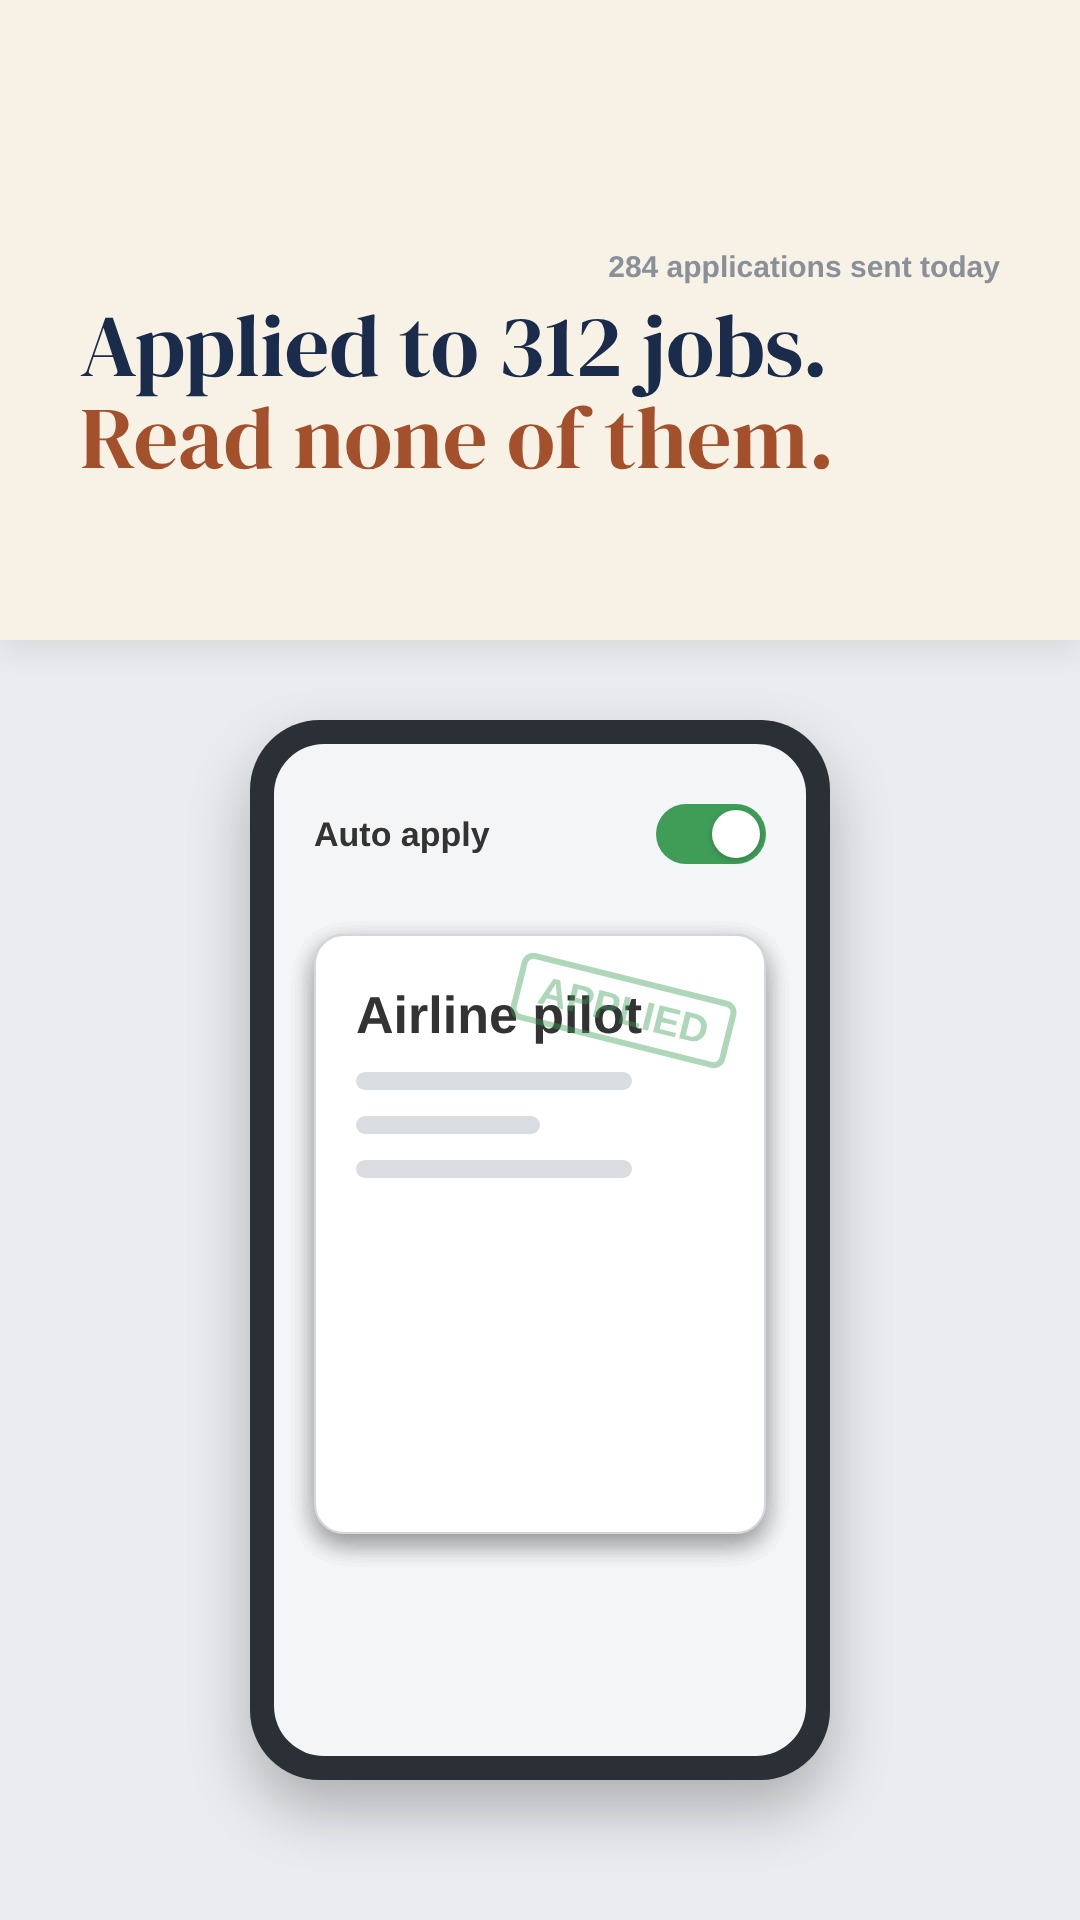
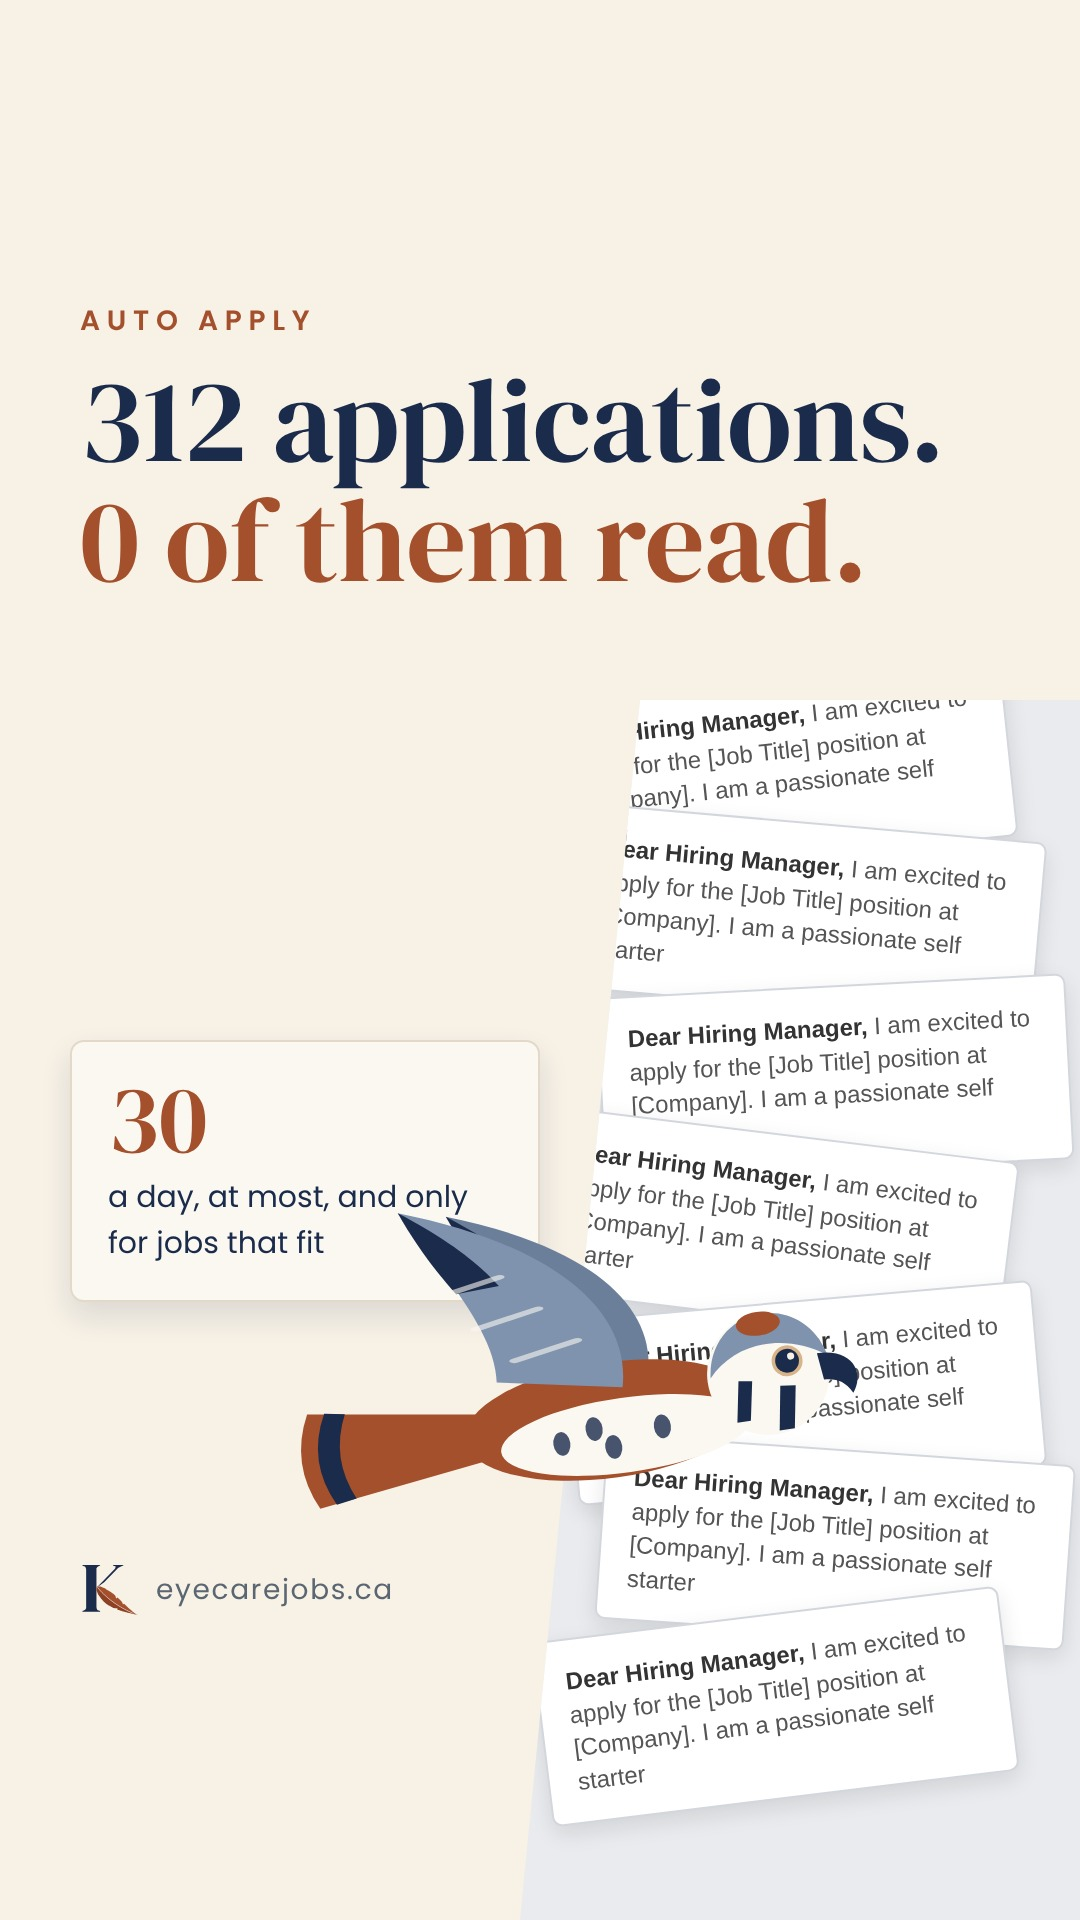
Instagram: designed covers for the 3 cut the noise reels
Claude-Session: https://claude.ai/code/session_01K4dgNT44d6ujsE4qjnTdTu

Changed region(s): [[0.0306, 0.125, 0.9778, 0.9688], [0.0611, 0.8125, 0.1222, 0.8438]]

diff --git a/design/social-and-merch/instagram-guides/autoapply-reel-cover.html b/design/social-and-merch/instagram-guides/autoapply-reel-cover.html
@@ -1,0 +1,45 @@
+<!doctype html><html lang="en"><head><meta charset="utf-8"><title>Cover</title><style>
+@font-face{font-family:'DM Serif Display';src:url(file:///home/user/Kestrel/node_modules/@fontsource/dm-serif-display/files/dm-serif-display-latin-400-normal.woff2)}
+@font-face{font-family:Poppins;font-weight:400;src:url(file:///home/user/Kestrel/node_modules/@fontsource/poppins/files/poppins-latin-400-normal.woff2)}
+@font-face{font-family:Poppins;font-weight:600;src:url(file:///home/user/Kestrel/node_modules/@fontsource/poppins/files/poppins-latin-600-normal.woff2)}
+body{margin:0}p{margin:0}
+#f{width:1080px;height:1920px;position:relative;overflow:hidden;background:#F7F1E6}
+#noise{position:absolute;inset:0;background:#E9EBEE;clip-path:polygon(640px 700px,1080px 700px,1080px 1920px,520px 1920px);font-family:Arial,Helvetica,sans-serif}
+.stack{position:absolute;left:560px;top:700px;width:560px}
+.g{width:470px;box-sizing:border-box;padding:24px 28px;background:#fff;border:2px solid #D3D7DD;border-radius:10px;box-shadow:0 8px 22px rgba(0,0,0,.10);color:#333;margin:-30px 0 0 0}
+.gt{font-weight:700;font-size:30px}.gb{height:14px;background:#D9DDE2;border-radius:7px;margin-top:14px;width:70%}.gb.s{width:45%}
+.gp{font-size:24px;color:#8A9099;margin-top:14px;line-height:1.4}
+.g.a{display:flex;gap:18px;align-items:center}.av{width:60px;height:60px;border-radius:50%;background:#C9CED5;flex:none}
+.who{position:absolute;left:80px;top:300px;font-family:Poppins;font-weight:600;font-size:28px;letter-spacing:0.24em;color:#A4502C}
+.head{position:absolute;left:80px;right:60px;top:360px;font-family:'DM Serif Display';font-size:118px;line-height:1.02;color:#1B2B4B}
+.kc{position:absolute;left:70px;top:1040px;width:470px;box-sizing:border-box;padding:34px 36px;border-radius:14px;background:#FBF8F2;border:2px solid #E3D9C8;box-shadow:0 14px 30px rgba(27,43,75,.12);font-family:Poppins}
+.kt{font-family:'DM Serif Display';font-size:50px;line-height:1.1;color:#1B2B4B}.km{font-size:26px;color:#5A6672;margin-top:6px}
+.cap{display:inline-block;margin-top:20px;padding:10px 22px;border-radius:999px;font-size:26px;font-weight:600}
+.cap.pay{background:#1B2B4B;color:#F7F1E6}.cap.fit{background:#A4502C;color:#F7F1E6}
+.foot{position:absolute;left:80px;top:1560px;display:flex;align-items:center;gap:16px}
+</style></head><body><div id="f">
+<div id="noise"><div class="stack"><div style="transform:translateX(-20px) rotate(-6deg)"><div class="g"><p class="gp" style="margin:0;color:#555"><b style="color:#333">Dear Hiring Manager,</b> I am excited to apply for the [Job Title] position at [Company]. I am a passionate self starter</p></div></div><div style="transform:translateX(10px) rotate(5deg)"><div class="g"><p class="gp" style="margin:0;color:#555"><b style="color:#333">Dear Hiring Manager,</b> I am excited to apply for the [Job Title] position at [Company]. I am a passionate self starter</p></div></div><div style="transform:translateX(40px) rotate(-3deg)"><div class="g"><p class="gp" style="margin:0;color:#555"><b style="color:#333">Dear Hiring Manager,</b> I am excited to apply for the [Job Title] position at [Company]. I am a passionate self starter</p></div></div><div style="transform:translateX(-20px) rotate(7deg)"><div class="g"><p class="gp" style="margin:0;color:#555"><b style="color:#333">Dear Hiring Manager,</b> I am excited to apply for the [Job Title] position at [Company]. I am a passionate self starter</p></div></div><div style="transform:translateX(10px) rotate(-5deg)"><div class="g"><p class="gp" style="margin:0;color:#555"><b style="color:#333">Dear Hiring Manager,</b> I am excited to apply for the [Job Title] position at [Company]. I am a passionate self starter</p></div></div><div style="transform:translateX(40px) rotate(4deg)"><div class="g"><p class="gp" style="margin:0;color:#555"><b style="color:#333">Dear Hiring Manager,</b> I am excited to apply for the [Job Title] position at [Company]. I am a passionate self starter</p></div></div><div style="transform:translateX(-20px) rotate(-7deg)"><div class="g"><p class="gp" style="margin:0;color:#555"><b style="color:#333">Dear Hiring Manager,</b> I am excited to apply for the [Job Title] position at [Company]. I am a passionate self starter</p></div></div></div></div>
+<p class="who">AUTO APPLY</p>
+<p class="head">312 applications.<br><span style="color:#A4502C">0 of them read.</span></p>
+<div class="kc"><p class="kt" style="font-size:96px;color:#A4502C;line-height:.9">30</p><p class="km" style="font-size:30px;color:#1B2B4B;margin-top:12px">a day, at most, and only for jobs that fit</p></div>
+<svg style="position:absolute;left:0;top:0;overflow:visible" width="1080" height="1920"><g transform="translate(610 1420) scale(1.7) rotate(-8)"><g id="fly">
+  <g id="farwing"><path d="M10 -18 C -20 -90, -80 -150, -160 -172 C -110 -112, -66 -62, -44 -16 Z" fill="#6B7F9B"/><path d="M-160 -172 C -128 -150, -104 -128, -86 -108 L -100 -98 C -118 -118, -138 -142, -160 -172 Z" fill="#1B2B4B"/></g>
+  <path id="tail" d="M-62 -12 L-176 -28 Q-190 0 -176 28 L-62 12 Z" fill="#A4502C"/>
+  <path d="M-154 -25 Q-166 0 -154 25 L-166 27 Q-180 0 -166 -27 Z" fill="#1B2B4B"/>
+  <ellipse cx="0" cy="0" rx="86" ry="34" fill="#A4502C"/>
+  <ellipse cx="8" cy="10" rx="74" ry="22" fill="#FBF8F2"/>
+  <ellipse cx="-30" cy="10" rx="5" ry="7" fill="#1B2B4B" opacity=".8"/><ellipse cx="0" cy="16" rx="5" ry="7" fill="#1B2B4B" opacity=".8"/><ellipse cx="30" cy="8" rx="5" ry="7" fill="#1B2B4B" opacity=".8"/><ellipse cx="-10" cy="4" rx="5" ry="7" fill="#1B2B4B" opacity=".8"/>
+  
+  <circle cx="96" cy="-14" r="36" fill="#FBF8F2"/>
+  <path d="M62 -16 C 66 -58, 122 -62, 132 -20 C 110 -36, 80 -36, 62 -16 Z" fill="#7F93AE"/>
+  <ellipse cx="94" cy="-44" rx="13" ry="7" fill="#A4502C"/>
+  <path d="M102 -6 l-4 26 h9 l4 -25 Z" fill="#1B2B4B"/>
+  <path d="M78 -12 l-4 24 h8 l4 -23 Z" fill="#1B2B4B"/>
+  <path d="M126 -22 C 148 -22, 152 -6, 144 4 C 140 -4, 134 -6, 128 -6 Z" fill="#1B2B4B"/>
+  <circle cx="108" cy="-20" r="9.1" fill="#D8B48A"/><circle cx="108" cy="-20" r="7" fill="#1B2B4B"/><circle cx="110.45" cy="-22.45" r="2.1" fill="#F7F1E6"/>
+  <g id="nearwing"><path d="M10 -18 C -20 -90, -80 -150, -160 -172 C -110 -112, -66 -62, -44 -16 Z" fill="#7F93AE"/><path d="M-160 -172 C -128 -150, -104 -128, -86 -108 L -100 -98 C -118 -118, -138 -142, -160 -172 Z" fill="#1B2B4B"/>
+  <path d="M-30 -60 l-16 22" stroke="#FBF8F2" stroke-width="5" stroke-linecap="round" opacity=".6"/><path d="M-60 -88 l-16 22" stroke="#FBF8F2" stroke-width="5" stroke-linecap="round" opacity=".6"/><path d="M-90 -116 l-16 22" stroke="#FBF8F2" stroke-width="5" stroke-linecap="round" opacity=".6"/></g>
+</g></g></svg>
+<div class="foot"><img src="file:///home/user/Kestrel/public/brand/kestrel-k-mark.svg" alt="" style="width:60px;height:60px"><p style="font-family:Poppins;font-size:28px;letter-spacing:0.06em;color:#5A6672">eyecarejobs.ca</p></div>
+<script>document.getElementById("nearwing").setAttribute("transform", "translate(10 -18) scale(1.5 0.5549999999999999) rotate(28) translate(-10 18)"); document.getElementById("farwing").setAttribute("transform", "translate(26 -24) scale(1.35 0.49949999999999994) rotate(28) translate(-10 18)");</script>
+</div></body></html>

diff --git a/design/social-and-merch/instagram-guides/noise-reel-clinics-cover.html b/design/social-and-merch/instagram-guides/noise-reel-clinics-cover.html
@@ -1,0 +1,45 @@
+<!doctype html><html lang="en"><head><meta charset="utf-8"><title>Cover</title><style>
+@font-face{font-family:'DM Serif Display';src:url(file:///home/user/Kestrel/node_modules/@fontsource/dm-serif-display/files/dm-serif-display-latin-400-normal.woff2)}
+@font-face{font-family:Poppins;font-weight:400;src:url(file:///home/user/Kestrel/node_modules/@fontsource/poppins/files/poppins-latin-400-normal.woff2)}
+@font-face{font-family:Poppins;font-weight:600;src:url(file:///home/user/Kestrel/node_modules/@fontsource/poppins/files/poppins-latin-600-normal.woff2)}
+body{margin:0}p{margin:0}
+#f{width:1080px;height:1920px;position:relative;overflow:hidden;background:#F7F1E6}
+#noise{position:absolute;inset:0;background:#E9EBEE;clip-path:polygon(640px 700px,1080px 700px,1080px 1920px,520px 1920px);font-family:Arial,Helvetica,sans-serif}
+.stack{position:absolute;left:560px;top:700px;width:560px}
+.g{width:470px;box-sizing:border-box;padding:24px 28px;background:#fff;border:2px solid #D3D7DD;border-radius:10px;box-shadow:0 8px 22px rgba(0,0,0,.10);color:#333;margin:-30px 0 0 0}
+.gt{font-weight:700;font-size:30px}.gb{height:14px;background:#D9DDE2;border-radius:7px;margin-top:14px;width:70%}.gb.s{width:45%}
+.gp{font-size:24px;color:#8A9099;margin-top:14px;line-height:1.4}
+.g.a{display:flex;gap:18px;align-items:center}.av{width:60px;height:60px;border-radius:50%;background:#C9CED5;flex:none}
+.who{position:absolute;left:80px;top:300px;font-family:Poppins;font-weight:600;font-size:28px;letter-spacing:0.24em;color:#A4502C}
+.head{position:absolute;left:80px;right:60px;top:360px;font-family:'DM Serif Display';font-size:118px;line-height:1.02;color:#1B2B4B}
+.kc{position:absolute;left:70px;top:1040px;width:470px;box-sizing:border-box;padding:34px 36px;border-radius:14px;background:#FBF8F2;border:2px solid #E3D9C8;box-shadow:0 14px 30px rgba(27,43,75,.12);font-family:Poppins}
+.kt{font-family:'DM Serif Display';font-size:50px;line-height:1.1;color:#1B2B4B}.km{font-size:26px;color:#5A6672;margin-top:6px}
+.cap{display:inline-block;margin-top:20px;padding:10px 22px;border-radius:999px;font-size:26px;font-weight:600}
+.cap.pay{background:#1B2B4B;color:#F7F1E6}.cap.fit{background:#A4502C;color:#F7F1E6}
+.foot{position:absolute;left:80px;top:1560px;display:flex;align-items:center;gap:16px}
+</style></head><body><div id="f">
+<div id="noise"><div class="stack"><div style="transform:translateX(-20px) rotate(-6deg)"><div class="g a"><div class="av"></div><div style="flex:1"><div class="gb"></div><p class="gp">Applied for: dental assistant</p></div></div></div><div style="transform:translateX(10px) rotate(5deg)"><div class="g a"><div class="av"></div><div style="flex:1"><div class="gb"></div><p class="gp">Hi, is this still available?</p></div></div></div><div style="transform:translateX(40px) rotate(-3deg)"><div class="g a"><div class="av"></div><div style="flex:1"><div class="gb"></div><p class="gp">Experience: barista</p></div></div></div><div style="transform:translateX(-20px) rotate(7deg)"><div class="g a"><div class="av"></div><div style="flex:1"><div class="gb"></div><p class="gp">Cover letter: for a different job</p></div></div></div><div style="transform:translateX(10px) rotate(-5deg)"><div class="g a"><div class="av"></div><div style="flex:1"><div class="gb"></div><p class="gp">Applied for: forklift operator</p></div></div></div><div style="transform:translateX(40px) rotate(4deg)"><div class="g a"><div class="av"></div><div style="flex:1"><div class="gb"></div><p class="gp">Didn't answer your questions</p></div></div></div><div style="transform:translateX(-20px) rotate(-7deg)"><div class="g a"><div class="av"></div><div style="flex:1"><div class="gb"></div><p class="gp">Experience: none listed</p></div></div></div></div></div>
+<p class="who">FOR CLINICS</p>
+<p class="head">247 applicants.<br><span style="color:#A4502C">Who read the ad?</span></p>
+<div class="kc"><p class="kt">Licensed optician</p><p class="km">Calgary · 6 years in practice</p><span class="cap fit">Fits the role</span></div>
+<svg style="position:absolute;left:0;top:0;overflow:visible" width="1080" height="1920"><g transform="translate(610 1420) scale(1.7) rotate(-8)"><g id="fly">
+  <g id="farwing"><path d="M10 -18 C -20 -90, -80 -150, -160 -172 C -110 -112, -66 -62, -44 -16 Z" fill="#6B7F9B"/><path d="M-160 -172 C -128 -150, -104 -128, -86 -108 L -100 -98 C -118 -118, -138 -142, -160 -172 Z" fill="#1B2B4B"/></g>
+  <path id="tail" d="M-62 -12 L-176 -28 Q-190 0 -176 28 L-62 12 Z" fill="#A4502C"/>
+  <path d="M-154 -25 Q-166 0 -154 25 L-166 27 Q-180 0 -166 -27 Z" fill="#1B2B4B"/>
+  <ellipse cx="0" cy="0" rx="86" ry="34" fill="#A4502C"/>
+  <ellipse cx="8" cy="10" rx="74" ry="22" fill="#FBF8F2"/>
+  <ellipse cx="-30" cy="10" rx="5" ry="7" fill="#1B2B4B" opacity=".8"/><ellipse cx="0" cy="16" rx="5" ry="7" fill="#1B2B4B" opacity=".8"/><ellipse cx="30" cy="8" rx="5" ry="7" fill="#1B2B4B" opacity=".8"/><ellipse cx="-10" cy="4" rx="5" ry="7" fill="#1B2B4B" opacity=".8"/>
+  
+  <circle cx="96" cy="-14" r="36" fill="#FBF8F2"/>
+  <path d="M62 -16 C 66 -58, 122 -62, 132 -20 C 110 -36, 80 -36, 62 -16 Z" fill="#7F93AE"/>
+  <ellipse cx="94" cy="-44" rx="13" ry="7" fill="#A4502C"/>
+  <path d="M102 -6 l-4 26 h9 l4 -25 Z" fill="#1B2B4B"/>
+  <path d="M78 -12 l-4 24 h8 l4 -23 Z" fill="#1B2B4B"/>
+  <path d="M126 -22 C 148 -22, 152 -6, 144 4 C 140 -4, 134 -6, 128 -6 Z" fill="#1B2B4B"/>
+  <circle cx="108" cy="-20" r="9.1" fill="#D8B48A"/><circle cx="108" cy="-20" r="7" fill="#1B2B4B"/><circle cx="110.45" cy="-22.45" r="2.1" fill="#F7F1E6"/>
+  <g id="nearwing"><path d="M10 -18 C -20 -90, -80 -150, -160 -172 C -110 -112, -66 -62, -44 -16 Z" fill="#7F93AE"/><path d="M-160 -172 C -128 -150, -104 -128, -86 -108 L -100 -98 C -118 -118, -138 -142, -160 -172 Z" fill="#1B2B4B"/>
+  <path d="M-30 -60 l-16 22" stroke="#FBF8F2" stroke-width="5" stroke-linecap="round" opacity=".6"/><path d="M-60 -88 l-16 22" stroke="#FBF8F2" stroke-width="5" stroke-linecap="round" opacity=".6"/><path d="M-90 -116 l-16 22" stroke="#FBF8F2" stroke-width="5" stroke-linecap="round" opacity=".6"/></g>
+</g></g></svg>
+<div class="foot"><img src="file:///home/user/Kestrel/public/brand/kestrel-k-mark.svg" alt="" style="width:60px;height:60px"><p style="font-family:Poppins;font-size:28px;letter-spacing:0.06em;color:#5A6672">eyecarejobs.ca</p></div>
+<script>document.getElementById("nearwing").setAttribute("transform", "translate(10 -18) scale(1.5 0.5549999999999999) rotate(28) translate(-10 18)"); document.getElementById("farwing").setAttribute("transform", "translate(26 -24) scale(1.35 0.49949999999999994) rotate(28) translate(-10 18)");</script>
+</div></body></html>

diff --git a/design/social-and-merch/instagram-guides/noise-reel-candidates-cover.html b/design/social-and-merch/instagram-guides/noise-reel-candidates-cover.html
@@ -1,0 +1,45 @@
+<!doctype html><html lang="en"><head><meta charset="utf-8"><title>Cover</title><style>
+@font-face{font-family:'DM Serif Display';src:url(file:///home/user/Kestrel/node_modules/@fontsource/dm-serif-display/files/dm-serif-display-latin-400-normal.woff2)}
+@font-face{font-family:Poppins;font-weight:400;src:url(file:///home/user/Kestrel/node_modules/@fontsource/poppins/files/poppins-latin-400-normal.woff2)}
+@font-face{font-family:Poppins;font-weight:600;src:url(file:///home/user/Kestrel/node_modules/@fontsource/poppins/files/poppins-latin-600-normal.woff2)}
+body{margin:0}p{margin:0}
+#f{width:1080px;height:1920px;position:relative;overflow:hidden;background:#F7F1E6}
+#noise{position:absolute;inset:0;background:#E9EBEE;clip-path:polygon(640px 700px,1080px 700px,1080px 1920px,520px 1920px);font-family:Arial,Helvetica,sans-serif}
+.stack{position:absolute;left:560px;top:700px;width:560px}
+.g{width:470px;box-sizing:border-box;padding:24px 28px;background:#fff;border:2px solid #D3D7DD;border-radius:10px;box-shadow:0 8px 22px rgba(0,0,0,.10);color:#333;margin:-30px 0 0 0}
+.gt{font-weight:700;font-size:30px}.gb{height:14px;background:#D9DDE2;border-radius:7px;margin-top:14px;width:70%}.gb.s{width:45%}
+.gp{font-size:24px;color:#8A9099;margin-top:14px;line-height:1.4}
+.g.a{display:flex;gap:18px;align-items:center}.av{width:60px;height:60px;border-radius:50%;background:#C9CED5;flex:none}
+.who{position:absolute;left:80px;top:300px;font-family:Poppins;font-weight:600;font-size:28px;letter-spacing:0.24em;color:#A4502C}
+.head{position:absolute;left:80px;right:60px;top:360px;font-family:'DM Serif Display';font-size:118px;line-height:1.02;color:#1B2B4B}
+.kc{position:absolute;left:70px;top:1040px;width:470px;box-sizing:border-box;padding:34px 36px;border-radius:14px;background:#FBF8F2;border:2px solid #E3D9C8;box-shadow:0 14px 30px rgba(27,43,75,.12);font-family:Poppins}
+.kt{font-family:'DM Serif Display';font-size:50px;line-height:1.1;color:#1B2B4B}.km{font-size:26px;color:#5A6672;margin-top:6px}
+.cap{display:inline-block;margin-top:20px;padding:10px 22px;border-radius:999px;font-size:26px;font-weight:600}
+.cap.pay{background:#1B2B4B;color:#F7F1E6}.cap.fit{background:#A4502C;color:#F7F1E6}
+.foot{position:absolute;left:80px;top:1560px;display:flex;align-items:center;gap:16px}
+</style></head><body><div id="f">
+<div id="noise"><div class="stack"><div style="transform:translateX(-20px) rotate(-6deg)"><div class="g"><p class="gt">Warehouse associate</p><div class="gb"></div><div class="gb s"></div><p class="gp">Pay: competitive</p></div></div><div style="transform:translateX(10px) rotate(5deg)"><div class="g"><p class="gt">Rockstar wanted!</p><div class="gb"></div><div class="gb s"></div><p class="gp">Salary: not stated</p></div></div><div style="transform:translateX(40px) rotate(-3deg)"><div class="g"><p class="gt">Sales rep, commission only</p><div class="gb"></div><div class="gb s"></div><p class="gp">Pay: DOE</p></div></div><div style="transform:translateX(-20px) rotate(7deg)"><div class="g"><p class="gt">Optical, 2 hours away</p><div class="gb"></div><div class="gb s"></div><p class="gp">Salary: negotiable</p></div></div><div style="transform:translateX(10px) rotate(-5deg)"><div class="g"><p class="gt">Team member</p><div class="gb"></div><div class="gb s"></div><p class="gp">Pay: competitive</p></div></div><div style="transform:translateX(40px) rotate(4deg)"><div class="g"><p class="gt">Delivery driver</p><div class="gb"></div><div class="gb s"></div><p class="gp">Salary: not stated</p></div></div><div style="transform:translateX(-20px) rotate(-7deg)"><div class="g"><p class="gt">Brand ambassador</p><div class="gb"></div><div class="gb s"></div><p class="gp">Pay: DOE</p></div></div></div></div>
+<p class="who">FOR CANDIDATES</p>
+<p class="head">4,000 jobs.<br><span style="color:#A4502C">1 that fits.</span></p>
+<div class="kc"><p class="kt">Optician</p><p class="km">Independent clinic · Calgary</p><span class="cap pay">$25 to $31 an hour</span></div>
+<svg style="position:absolute;left:0;top:0;overflow:visible" width="1080" height="1920"><g transform="translate(610 1420) scale(1.7) rotate(-8)"><g id="fly">
+  <g id="farwing"><path d="M10 -18 C -20 -90, -80 -150, -160 -172 C -110 -112, -66 -62, -44 -16 Z" fill="#6B7F9B"/><path d="M-160 -172 C -128 -150, -104 -128, -86 -108 L -100 -98 C -118 -118, -138 -142, -160 -172 Z" fill="#1B2B4B"/></g>
+  <path id="tail" d="M-62 -12 L-176 -28 Q-190 0 -176 28 L-62 12 Z" fill="#A4502C"/>
+  <path d="M-154 -25 Q-166 0 -154 25 L-166 27 Q-180 0 -166 -27 Z" fill="#1B2B4B"/>
+  <ellipse cx="0" cy="0" rx="86" ry="34" fill="#A4502C"/>
+  <ellipse cx="8" cy="10" rx="74" ry="22" fill="#FBF8F2"/>
+  <ellipse cx="-30" cy="10" rx="5" ry="7" fill="#1B2B4B" opacity=".8"/><ellipse cx="0" cy="16" rx="5" ry="7" fill="#1B2B4B" opacity=".8"/><ellipse cx="30" cy="8" rx="5" ry="7" fill="#1B2B4B" opacity=".8"/><ellipse cx="-10" cy="4" rx="5" ry="7" fill="#1B2B4B" opacity=".8"/>
+  
+  <circle cx="96" cy="-14" r="36" fill="#FBF8F2"/>
+  <path d="M62 -16 C 66 -58, 122 -62, 132 -20 C 110 -36, 80 -36, 62 -16 Z" fill="#7F93AE"/>
+  <ellipse cx="94" cy="-44" rx="13" ry="7" fill="#A4502C"/>
+  <path d="M102 -6 l-4 26 h9 l4 -25 Z" fill="#1B2B4B"/>
+  <path d="M78 -12 l-4 24 h8 l4 -23 Z" fill="#1B2B4B"/>
+  <path d="M126 -22 C 148 -22, 152 -6, 144 4 C 140 -4, 134 -6, 128 -6 Z" fill="#1B2B4B"/>
+  <circle cx="108" cy="-20" r="9.1" fill="#D8B48A"/><circle cx="108" cy="-20" r="7" fill="#1B2B4B"/><circle cx="110.45" cy="-22.45" r="2.1" fill="#F7F1E6"/>
+  <g id="nearwing"><path d="M10 -18 C -20 -90, -80 -150, -160 -172 C -110 -112, -66 -62, -44 -16 Z" fill="#7F93AE"/><path d="M-160 -172 C -128 -150, -104 -128, -86 -108 L -100 -98 C -118 -118, -138 -142, -160 -172 Z" fill="#1B2B4B"/>
+  <path d="M-30 -60 l-16 22" stroke="#FBF8F2" stroke-width="5" stroke-linecap="round" opacity=".6"/><path d="M-60 -88 l-16 22" stroke="#FBF8F2" stroke-width="5" stroke-linecap="round" opacity=".6"/><path d="M-90 -116 l-16 22" stroke="#FBF8F2" stroke-width="5" stroke-linecap="round" opacity=".6"/></g>
+</g></g></svg>
+<div class="foot"><img src="file:///home/user/Kestrel/public/brand/kestrel-k-mark.svg" alt="" style="width:60px;height:60px"><p style="font-family:Poppins;font-size:28px;letter-spacing:0.06em;color:#5A6672">eyecarejobs.ca</p></div>
+<script>document.getElementById("nearwing").setAttribute("transform", "translate(10 -18) scale(1.5 0.5549999999999999) rotate(28) translate(-10 18)"); document.getElementById("farwing").setAttribute("transform", "translate(26 -24) scale(1.35 0.49949999999999994) rotate(28) translate(-10 18)");</script>
+</div></body></html>
